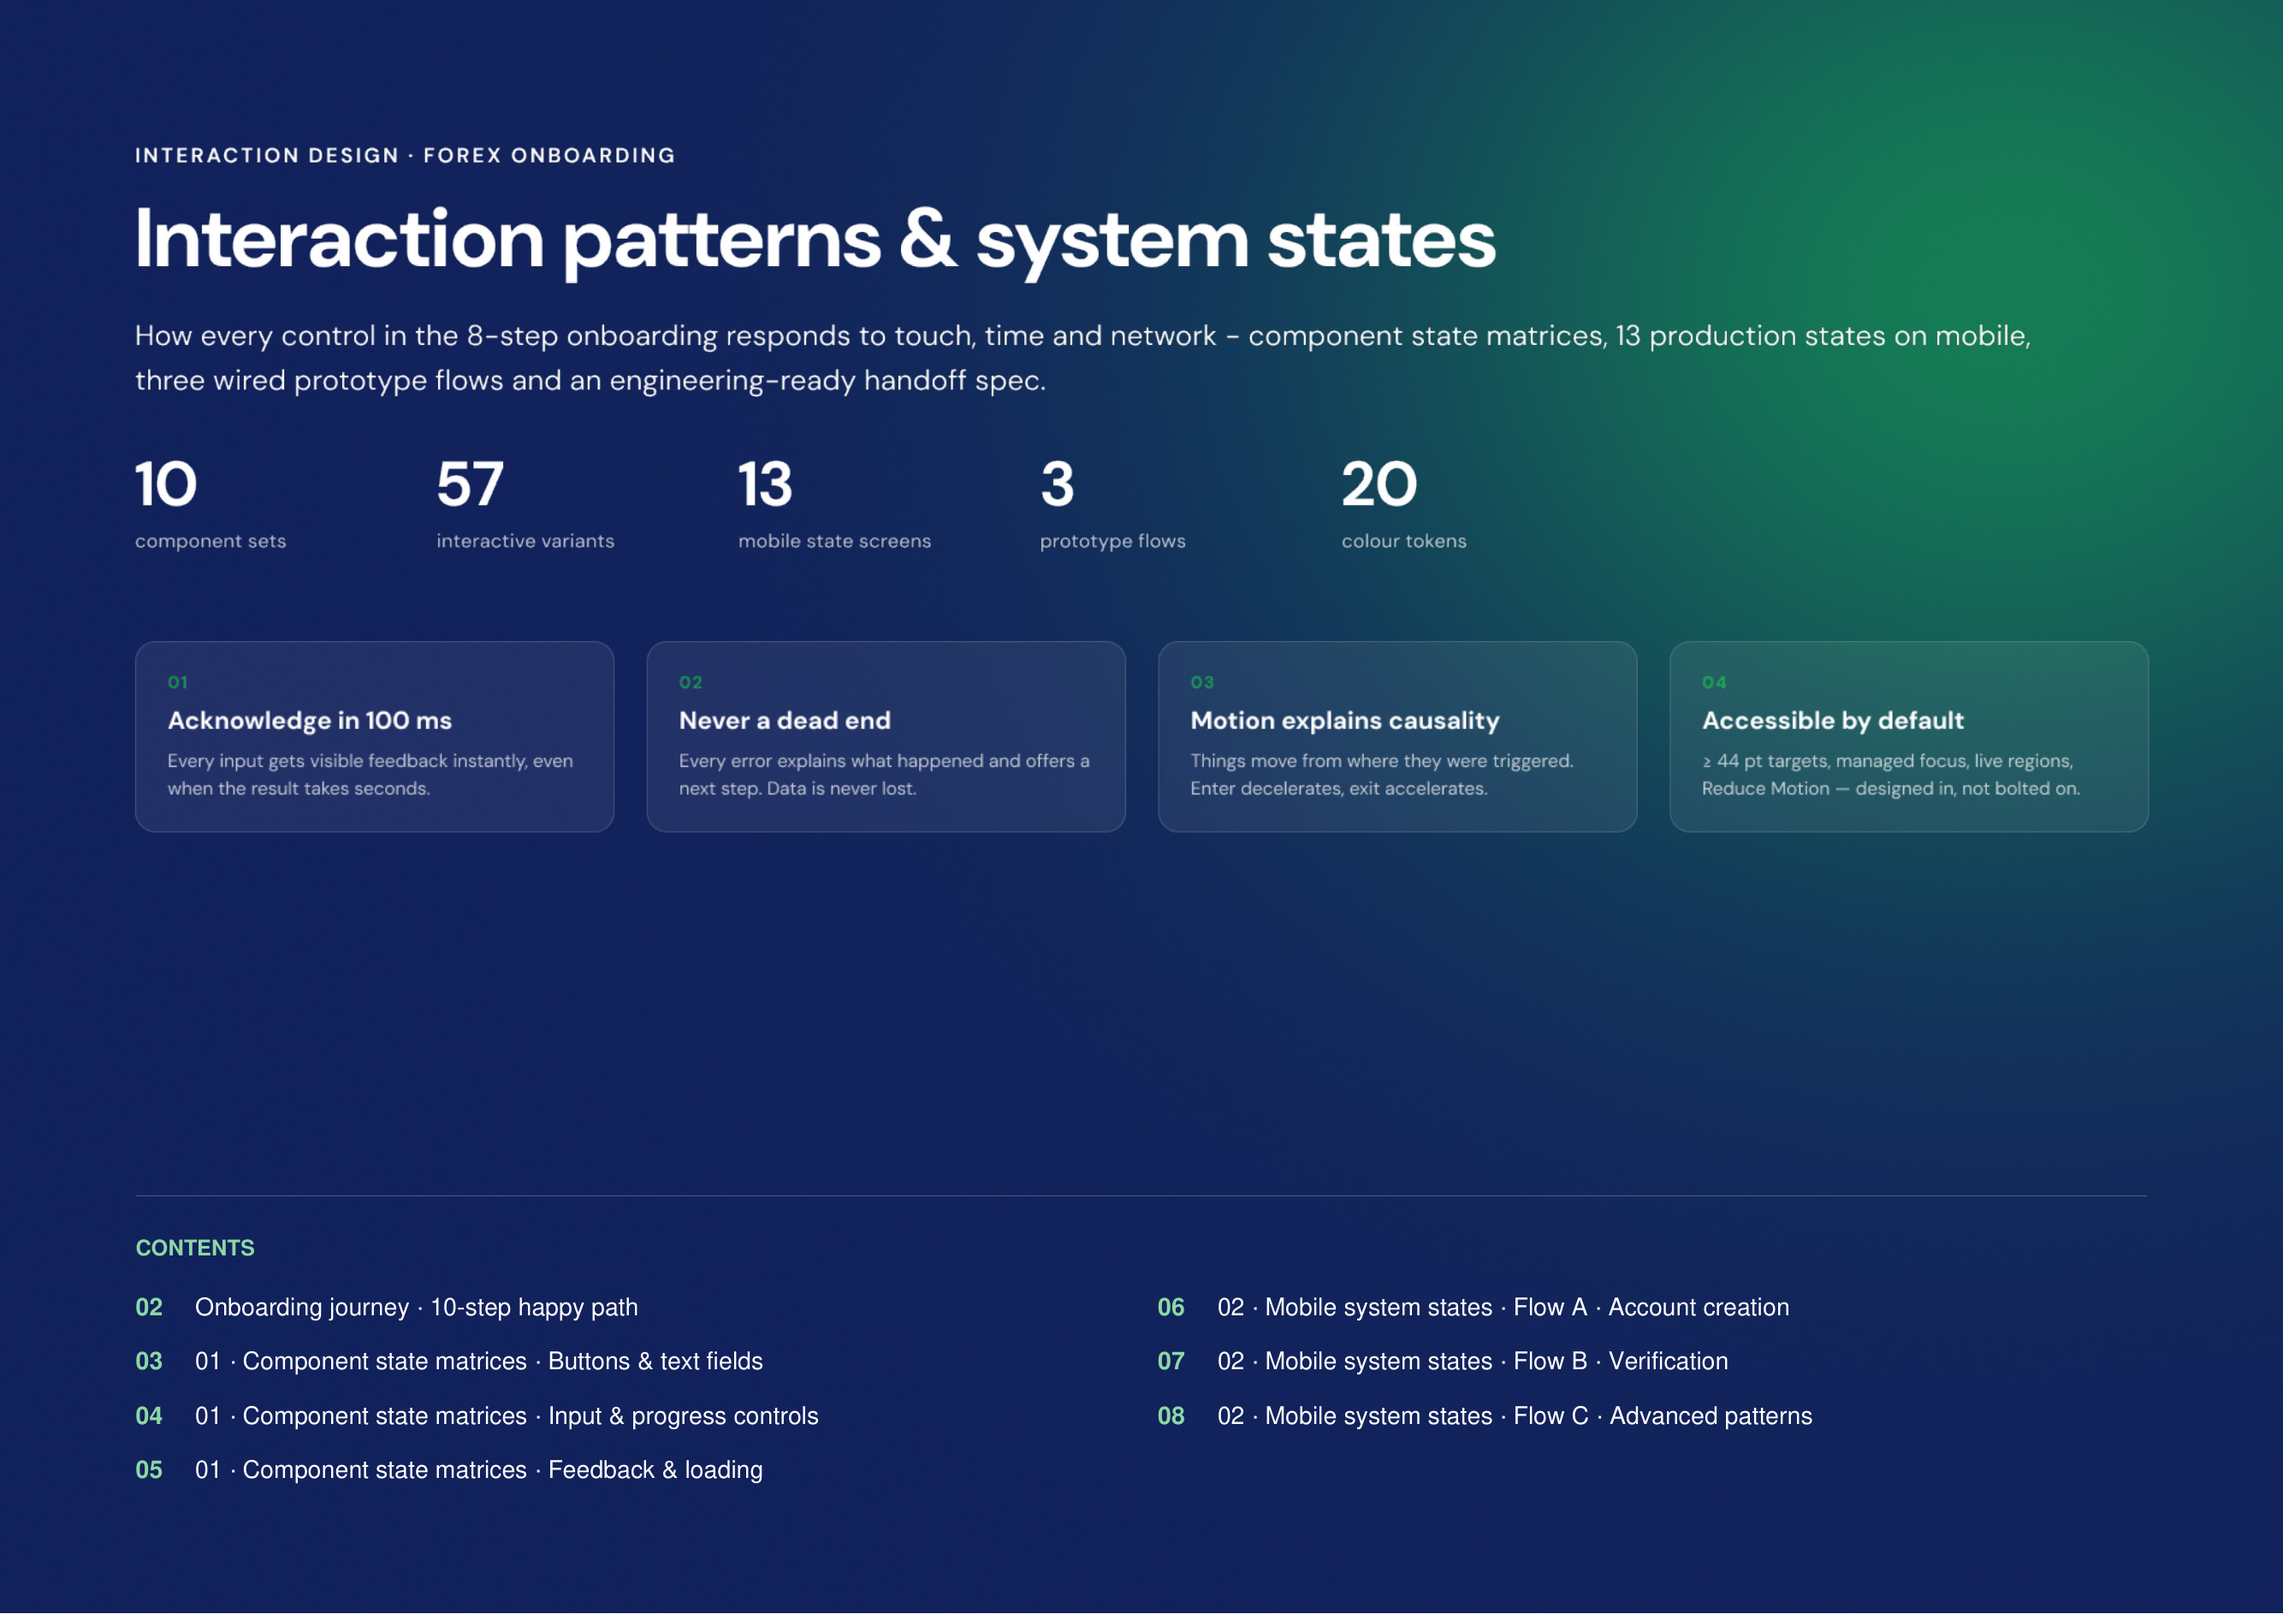
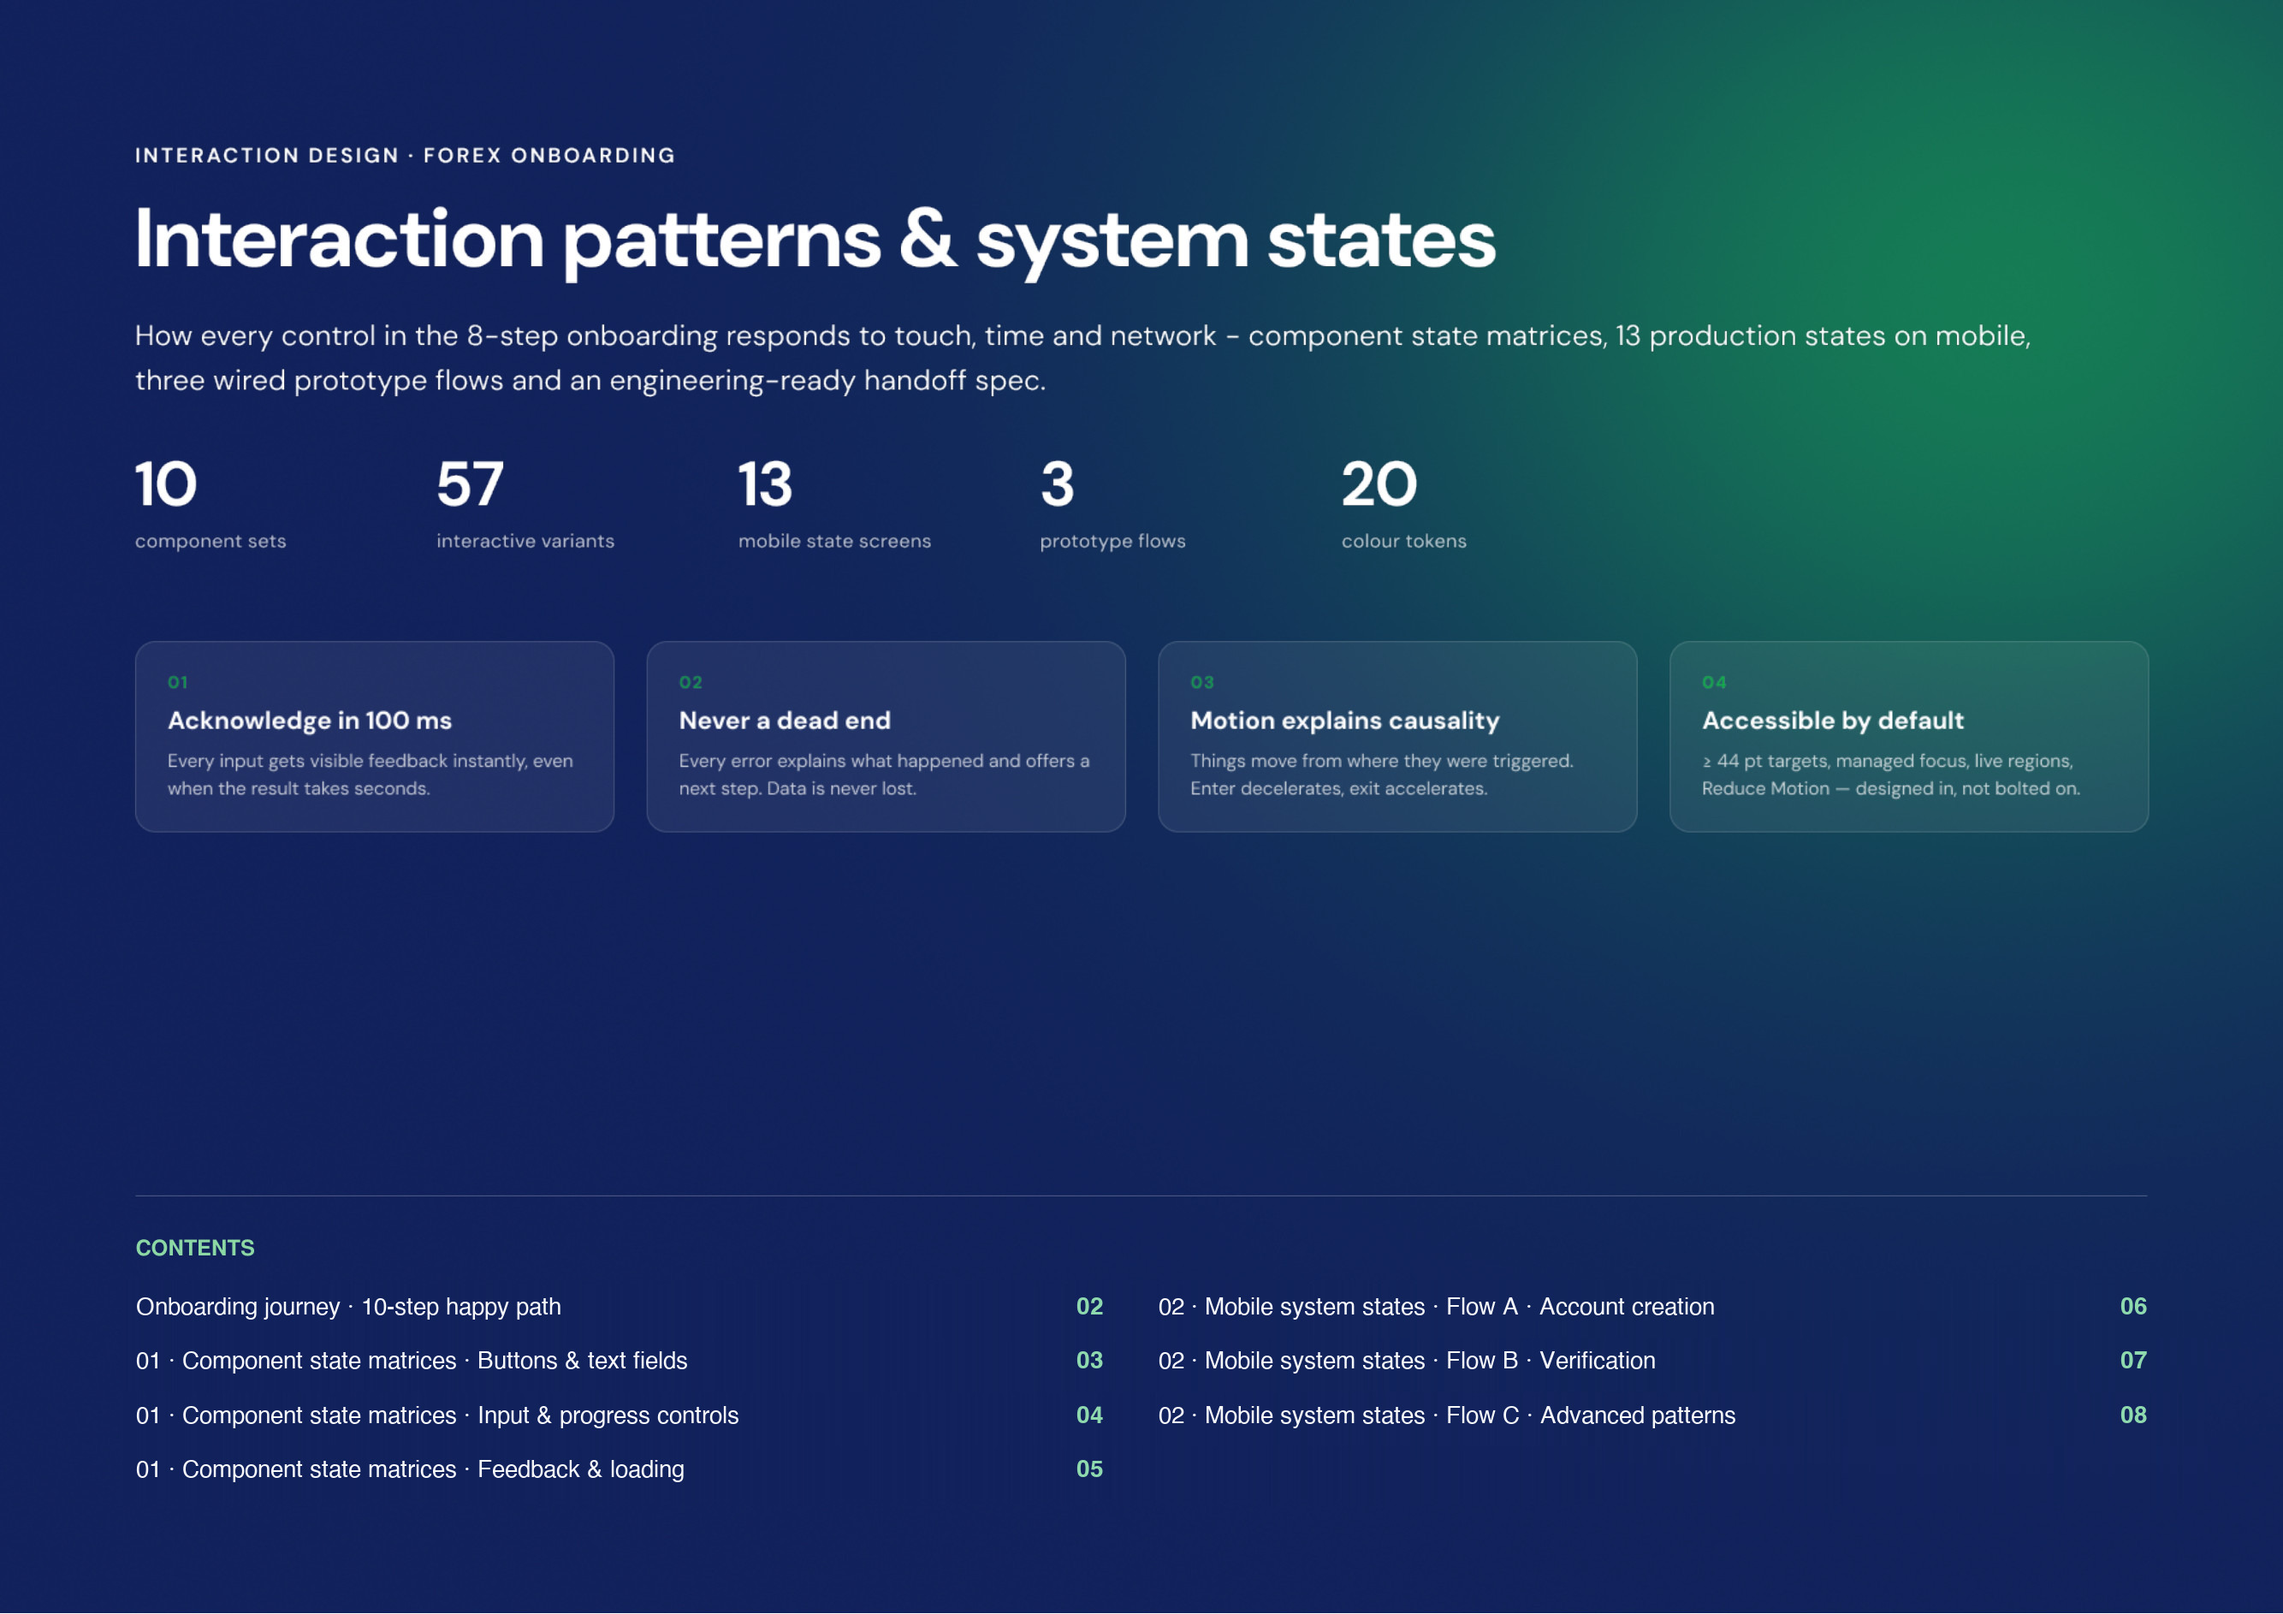
portfolio: case study — link cover contents, page numbers at row end
- Move each contents page number to the end of its row on the cover
- Make each contents row a link that scrolls to its page

Changed region(s): [[0.0622, 0.7996, 0.3422, 0.9226], [0.4978, 0.7996, 0.7777, 0.8918]]

diff --git a/portfolio/interaction-design-case-study.html b/portfolio/interaction-design-case-study.html
@@ -191,6 +191,17 @@
       border-radius:12px;
       border:1px solid #E7E7E5;        /* white PDF pages on a white panel */
     }
+
+    /* ---------- Cover: clickable Contents rows over the image ---------- */
+    .gallery__cover{ position:relative; }
+    .toc-link{
+      position:absolute;
+      height:3.3%;                     /* Contents rows, as % of the cover image */
+      border-radius:6px;
+      transition:background-color .18s ease;
+    }
+    .toc-link:hover{ background:rgba(255,255,255,.08); }
+    .toc-link:focus-visible{ outline:2px solid var(--blue); outline-offset:2px; }
   </style>
 </head>
 <body>
@@ -260,6 +271,18 @@
       { file: "8.png", alt: "Mobile system states — Flow C, advanced patterns" }
     ];
 
+    /* Cover Contents rows → target page (two columns; % of the cover image) */
+    var TOC_COLS = [ { left: 5.4, width: 43.4 }, { left: 50.2, width: 44.3 } ];
+    var TOC = [
+      { page: 2, col: 0, top: 79.4, label: "Onboarding journey · 10-step happy path" },
+      { page: 3, col: 0, top: 82.8, label: "Component state matrices · Buttons & text fields" },
+      { page: 4, col: 0, top: 86.1, label: "Component state matrices · Input & progress controls" },
+      { page: 5, col: 0, top: 89.5, label: "Component state matrices · Feedback & loading" },
+      { page: 6, col: 1, top: 79.4, label: "Mobile system states · Flow A · Account creation" },
+      { page: 7, col: 1, top: 82.8, label: "Mobile system states · Flow B · Verification" },
+      { page: 8, col: 1, top: 86.1, label: "Mobile system states · Flow C · Advanced patterns" }
+    ];
+
     /* -----------------------------------------------------------------
        Responsive scaling — mirrors the homepage's fit() exactly so the
        shared gray header bar sits at the identical position and size on
@@ -286,15 +309,43 @@
       var gallery = document.getElementById('gallery');
       var frag = document.createDocumentFragment();
 
-      IMAGES.forEach(function (item){
+      IMAGES.forEach(function (item, i){
         var img = document.createElement('img');
         img.className = 'gallery__img';
+        img.id = 'page-' + (i + 1);
         img.src = IMAGE_DIR + item.file;
         img.alt = "Interaction Design \u2014 " + item.alt;
         img.decoding = 'async';
         // Each image grows the frame height, so re-fit once it has loaded.
         img.addEventListener('load', fit);
-        frag.appendChild(img);
+
+        if (i > 0) { frag.appendChild(img); return; }
+
+        // Cover: overlay a link on each Contents row
+        var cover = document.createElement('div');
+        cover.className = 'gallery__cover';
+        cover.appendChild(img);
+        TOC.forEach(function (row){
+          var a = document.createElement('a');
+          a.className = 'toc-link';
+          a.href = '#page-' + row.page;
+          a.style.top = row.top + '%';
+          a.style.left = TOC_COLS[row.col].left + '%';
+          a.style.width = TOC_COLS[row.col].width + '%';
+          a.setAttribute('aria-label', 'Go to ' + row.label);
+          cover.appendChild(a);
+        });
+        frag.appendChild(cover);
+      });
+
+      // The frame is CSS-scaled, so scroll by the rendered position, not the anchor
+      gallery.addEventListener('click', function (e){
+        var a = e.target.closest('.toc-link');
+        if (!a) return;
+        e.preventDefault();
+        var target = document.querySelector(a.getAttribute('href'));
+        window.scrollTo({ top: target.getBoundingClientRect().top + window.scrollY - 24, behavior: 'smooth' });
+        history.replaceState(null, '', a.getAttribute('href'));
       });
 
       gallery.appendChild(frag);
